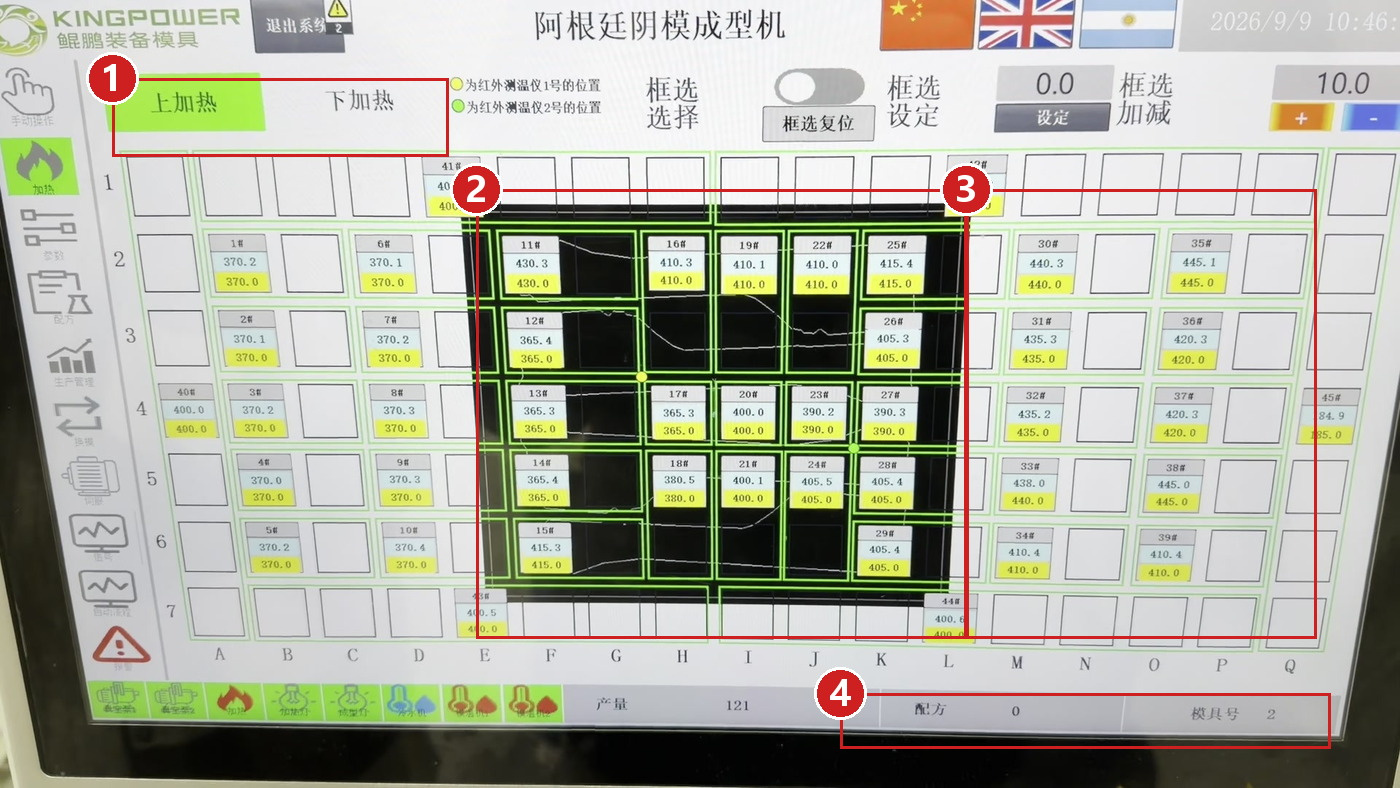
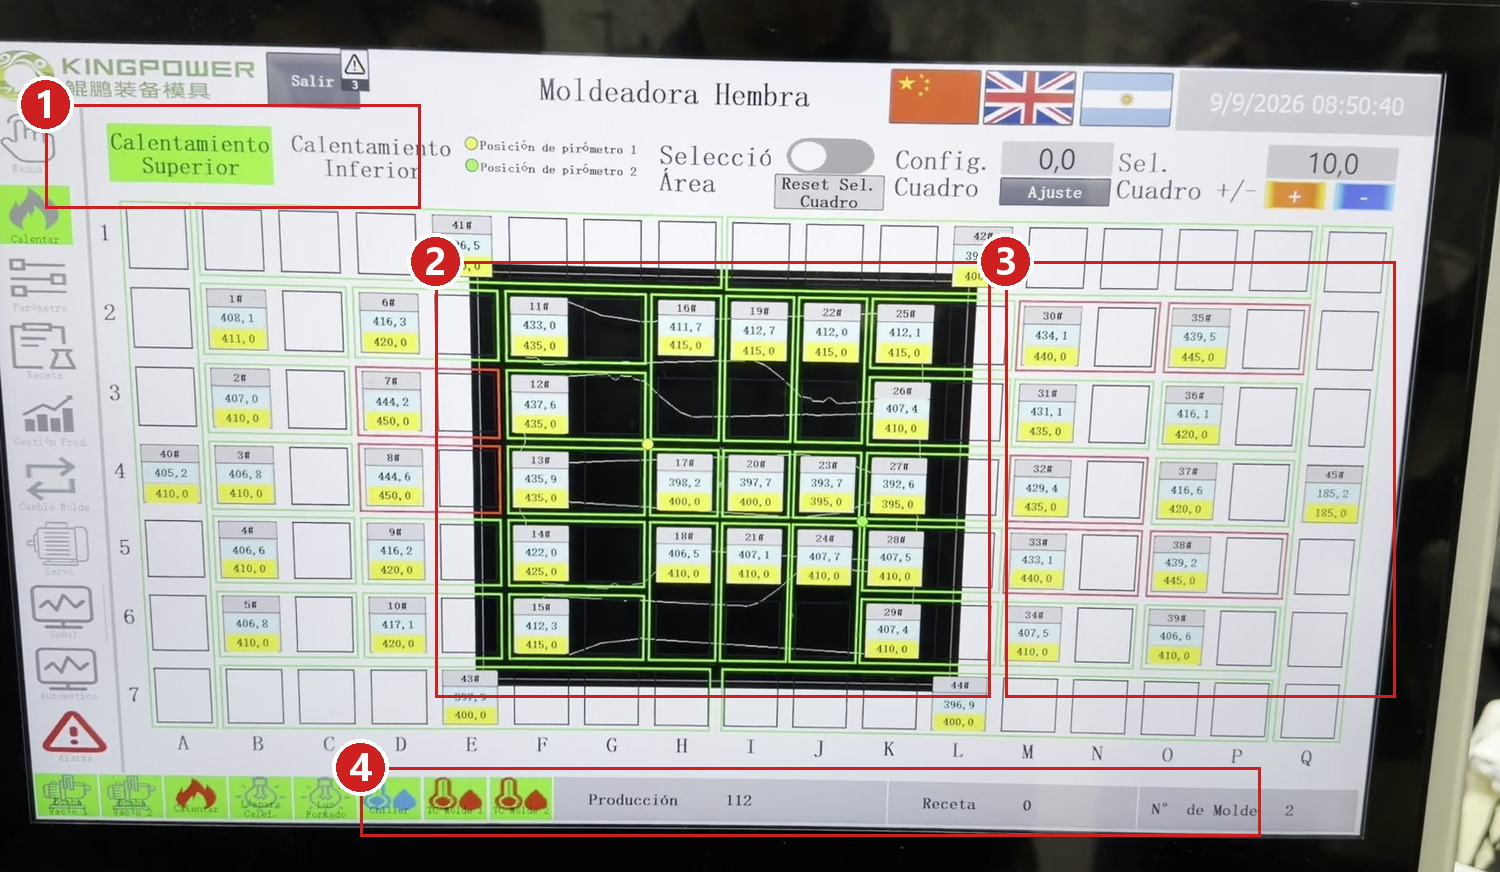
feat(img): la matriz de calor pasa a la pantalla en castellano
Fak: "hay que intentar que todas, dentro de lo posible, esten en español,
no en chino: cuando ya lo habiamos traducido me asegure de grabar todas
las pantallas de frente". Tenia razon y yo habia usado la china.

Barridos los 5.335 fotogramas: NINGUNA pantalla existe solo en chino, las
26 tienen al menos una toma en castellano. La matriz sale ahora del
IMG_0789 (09-09 08:50:40), de frente y a pantalla completa.

Dos cosas que van al skill porque cambian como se busca:
- el idioma NO es una propiedad del dia: las tres banderas de la barra de
  arriba se cambian en cualquier momento (el 09/09, chino a las 08:50:22 y
  castellano a las 08:50:27)
- el OCR no alcanza: un cuadro con la pantalla en castellano perfectamente
  legible dio cero texto. Lo encontro el barrido visual.

diff --git a/scripts/img/generar_hojas_img.py b/scripts/img/generar_hojas_img.py
@@ -1116,22 +1116,24 @@ HOJAS_IMG = [
         modo="rotulada",
         imagenes=[_f("r_matriz.jpg")],
         pasos=[
-            "Arriba se elige que mitad se mira: calentamiento superior (上加热) o "
-            "inferior (下加热).",
+            "Arriba se elige que mitad se mira: Calentamiento Superior o Calentamiento "
+            "Inferior. La que esta mirando queda en verde.",
             "Cada casillero con numero es una resistencia: arriba lo que MIDE y abajo, en "
             "amarillo, lo que tiene CONSIGNADO. Los casilleros vacios no tienen resistencia.",
             "El contorno del molde queda dibujado sobre la grilla y marca por donde pasa la "
             "pieza. Las de adentro y las de afuera muestran las dos su temperatura.",
             "El pie dice la produccion del turno, la receta y el numero de molde.",
         ],
+        fuentes=[
+            "IMG_0789 (09-09-2026) s=14,5: los dos botones arriba a la izquierda, con "
+            "Calentamiento Superior en verde",
+            "misma pantalla: cada casillero con su valor medido arriba y el consignado en "
+            "amarillo",
+            "misma pantalla: el contorno del molde dibujado sobre la grilla",
+            "misma pantalla: el pie con Produccion, Receta y N de Molde",
+        ],
         nota="Si una resistencia mide muy por debajo de lo consignado, no se arranca: se "
              "anota el numero de la resistencia y se avisa.",
-        fuentes=[
-            "IMG_0801 s=20,3: los dos botones 上加热 / 下加热 arriba de la grilla",
-            "misma pantalla: cada casillero con su valor medido arriba y el consignado en amarillo",
-            "misma pantalla: el contorno del molde dibujado sobre la grilla",
-            "misma pantalla: el pie con Produccion, Receta y Numero Molde",
-        ],
         epp=EPP_STD,
         disparador="SI UNA ZONA NO LLEGA A LA TEMPERATURA CONSIGNADA",
         acciones=[

diff --git a/.claude/skills/hojas-de-proceso/SKILL.md b/.claude/skills/hojas-de-proceso/SKILL.md
@@ -270,6 +270,25 @@ escribir, pero solo**: el por que va aparte (`no-pfd-no-ho.md` §5).
 Lo mismo para los parametros: va el valor que rige (`Tiempo de vacio: 19 s`), no su
 historia (`subido de 8 s el 10/09 porque...`).
 
+## 2 sexies. La pantalla va en CASTELLANO, y el idioma no es del dia
+
+Fak, 21/09/2026: *"hay que intentar que todas, dentro de lo posible, esten en español, no en
+chino: cuando ya lo habiamos traducido me asegure de grabar todas las pantallas de frente"*.
+
+Barridos los 5.335 fotogramas de la moldeadora: **ninguna pantalla existe solo en chino**.
+Las 26 pantallas distintas tienen al menos una toma en castellano. Asi que si una hoja
+muestra una pantalla en chino, es que no se busco bien.
+
+**Y lo que cambia como se busca: el idioma NO es una propiedad del dia.** La barra de arriba
+tiene las tres banderas (China / Reino Unido / Argentina) y se cambia en cualquier momento —
+el 09/09 a las 08:50:22 la pantalla esta en chino y a las 08:50:27 ya esta en castellano; el
+11/09 a las 11:29:40 en castellano y seis segundos despues en chino otra vez. Buscar "el dia
+en que estaba traducido" no sirve: se mira cuadro por cuadro.
+
+**Y el OCR no alcanza para encontrarlas.** En ese barrido, un fotograma con la pantalla en
+castellano perfectamente legible dio CERO texto, ni agrandandolo al doble. Lo encontro el
+barrido visual. El OCR ordena la busqueda; el que decide es el ojo.
+
 ## 3. La pantalla es la FOTO REAL enderezada, con el dato encima. Ni redibujada ni con IA
 
 **Fak, 08/09/2026:** *"intenta poner la foto de la pantalla real y metele un edit y ponele encima
